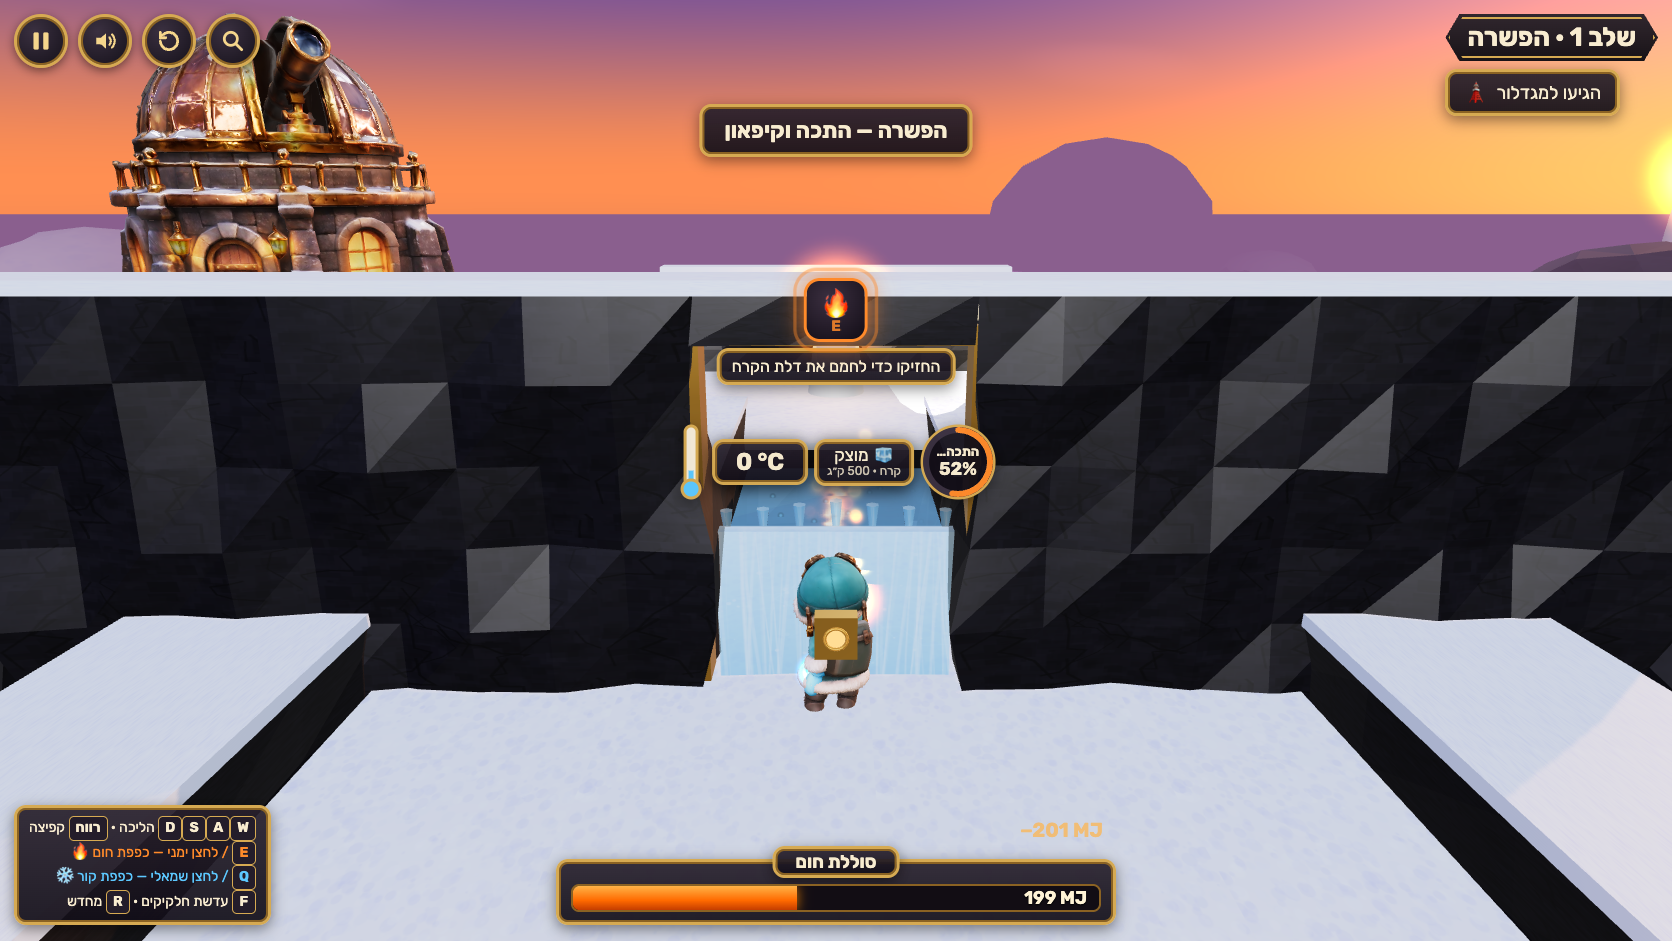
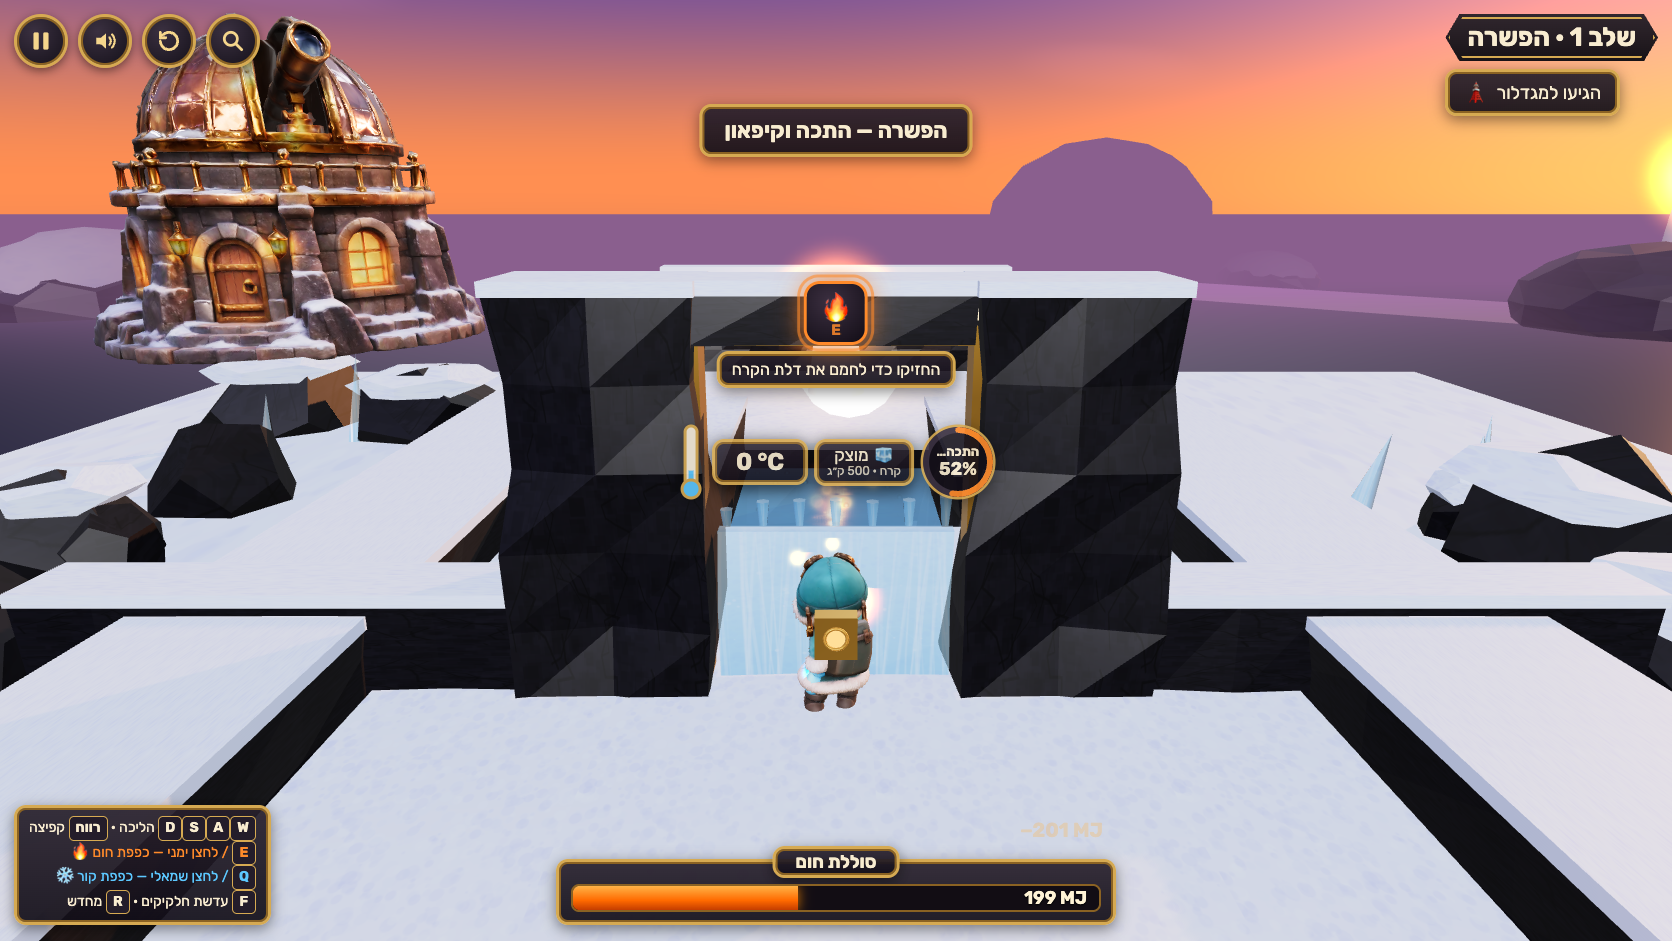
Open up level 1/4 walls, bigger lens, warmer light, VISUAL_REVIEW.md

diff --git a/src/game/levels.ts b/src/game/levels.ts
@@ -54,8 +54,10 @@ const level1: LevelDef = {
   hints: 'always',
   statics: [
     S(0, -2, 3.4, 8, 2, 11.2, 'snow'),
-    S(-4.05, 0, 1.6, 5.9, 3.5, 0.7),
-    S(4.05, 0, 1.6, 5.9, 3.5, 0.7),
+    S(-1.9, 0, 1.6, 1.6, 3.5, 0.9),
+    S(1.9, 0, 1.6, 1.6, 3.5, 0.9),
+    { ...S(-4.85, 0, 1.6, 4.3, 3.5, 0.7), visualH: 0.9 },
+    { ...S(4.85, 0, 1.6, 4.3, 3.5, 0.7), visualH: 0.9 },
     S(0, 3.1, 1.6, 2.2, 0.4, 0.7),
     // creek channel
     S(0, -3, -4.3, 3, 0.5, 4.2, 'stone'),
@@ -328,8 +330,10 @@ const level4: LevelDef = {
     { ...S(-5.5, -2, -5, 2, 7, 26), visualH: 2.7 },
     { ...S(5.5, -2, -5, 2, 7, 26), visualH: 2.7 },
     S(0, 0, 8.3, 9, 2.4, 0.6),
-    S(-2.5, 0, 0, 4, 3.5, 1.2),
-    S(2.5, 0, 0, 4, 3.5, 1.2),
+    S(-1.25, 0, 0, 1.5, 3.5, 1.2),
+    S(1.25, 0, 0, 1.5, 3.5, 1.2),
+    { ...S(-3.25, 0, 0, 2.5, 3.5, 1.2), visualH: 1.0 },
+    { ...S(3.25, 0, 0, 2.5, 3.5, 1.2), visualH: 1.0 },
     S(0, 1.6, 0, 1.0, 1.9, 1.2),
     S(-2.8, 0, -10, 3.4, 4, 0.4),
     S(2.8, 0, -10, 3.4, 4, 0.4),

diff --git a/src/ui/hud.ts b/src/ui/hud.ts
@@ -363,8 +363,9 @@ export class Hud {
       const p = project(lensTarget.ent.id);
       const W = this.el.clientWidth;
       const H = this.el.clientHeight;
-      const lx = p ? Math.min(W - 200, Math.max(200, p.x)) : W / 2;
-      const ly = p ? Math.min(H - 200, Math.max(200, p.y - 60)) : H / 2;
+      const half = Math.min(240, W * 0.4, H * 0.34);
+      const lx = p ? Math.min(W - half, Math.max(half, p.x + (W > 700 ? W * 0.12 : 0))) : W / 2;
+      const ly = p ? Math.min(H - half - 40, Math.max(half + 30, p.y - 60)) : H / 2;
       this.lensWrap.hidden = false;
       this.lensWrap.style.left = `${lx}px`;
       this.lensWrap.style.top = `${ly}px`;

diff --git a/src/render/world.ts b/src/render/world.ts
@@ -70,8 +70,8 @@ export function createWorld(canvas: HTMLCanvasElement): World {
   sky.renderOrder = -10;
   scene.add(sky);
 
-  scene.add(new THREE.HemisphereLight(0x9fa8ff, 0x2a2440, 0.85));
-  const sun = new THREE.DirectionalLight(0xffb37a, 2.6);
+  scene.add(new THREE.HemisphereLight(0xa9b4ff, 0x3a2f55, 1.05));
+  const sun = new THREE.DirectionalLight(0xffae6e, 3.1);
   sun.position.copy(sunDir).multiplyScalar(40);
   sun.castShadow = true;
   sun.shadow.mapSize.set(2048, 2048);

diff --git a/src/ui/style.css b/src/ui/style.css
@@ -387,8 +387,8 @@ body {
 /* lens */
 .lens {
   position: absolute;
-  width: min(360px, 62vmin);
-  height: min(360px, 62vmin);
+  width: min(460px, 64vmin);
+  height: min(460px, 64vmin);
   transform: translate(-50%, -50%);
   pointer-events: none;
 }

diff --git a/docs/VISUAL_REVIEW.md b/docs/VISUAL_REVIEW.md
@@ -1,0 +1,35 @@
+# Visual review — mockups vs real gameplay
+
+Targets: ChatGPT (gpt-image) mockups in `docs/visual-targets/` (prompts in `PROMPTS.md`). They are design targets, not evidence of the game. Actual captures: `docs/captures/*-actual.png`, taken from the running game at the mockups' viewport (1672×941) with real keyboard input through `scripts/shot.mjs` (headless Chrome on the Mac's GPU), at the same moment of play. Hebrew in the mockups is often garbled; we copied layout, not text.
+
+| # | Target | Actual | Moment |
+|---|---|---|---|
+| 01 | `visual-targets/01-first-30s.png` | `captures/01-first-30s-actual.png` | Level 1, holding E at the ice door, mid-melt |
+| 02 | `visual-targets/02-steam-lift.png` | `captures/02-steam-lift-actual.png` | Level 2, riding the balloon basket while the basin boils |
+| 03 | `visual-targets/03-oops.png` | `captures/03-oops-actual.png` | Level 3, heating the wooden rod by mistake |
+| 04 | `visual-targets/04-lens-hud.png` | `captures/04-lens-hud-actual.png` | Level 5, big ice lift stuck at 0 °C, particle lens held |
+
+## What matches
+
+- **Camera**: third-person chase from behind and above the explorer, explorer in the lower middle of the frame, the target ahead (01, 02, 03).
+- **Hero silhouette**: the rigged Tripo explorer (teal parka, fur trim, goggles, orange right glove, blue left glove) with a glowing brass battery backpack added in code to match 01/04. Idle, run, jump, aim and cheer clips play in gameplay.
+- **HUD hierarchy and RTL**: round brass buttons top-left (pause, sound, restart, lens — the lens button lights up like 04's); brass level plaque + objective top-right (`שלב 1 · הפשרה`, `הגיעו למגדלור` with lighthouse icon); `סוללת חום` battery bar bottom-centre with an LTR MJ value; thermometer + °C readout + phase chip + plateau progress ring (`התכה… 52%`) on the target; touch layout (stick left, 🔥 ❄ ⤒ right) at phone width.
+- **Particle lens (04)**: brass ring split down the middle — liquid particles sliding on one side, a vibrating bonded lattice on the other — with `0 °C` on top, `נוזל` / `מוצק` side tags and a locked mass tag at the bottom (`🔒 מסה: 1000 ק״ג · H₂O`). This is the closest match.
+- **Steam lift (02)**: the explorer stands in the Tripo balloon's basket while the envelope swells; a hose runs from the boiling basin; white droplet clouds rise from the basin; the gauge reads 100 °C with a רתיחה ring.
+- **Palette**: violet-blue sky to orange horizon, low warm sun, black basalt, snow, brass, warm lamp light; the Tripo observatory dome as a landmark; a lighthouse as the exit beacon.
+
+## Material differences that remain (honest)
+
+1. **Scene density and finish.** The mockups are painterly, densely dressed cliffs with wet reflective rock, icicles everywhere, waterfalls and rim light. The game uses procedural boxes with lumpy rock sides, flat snow tops and scattered boulders. It reads as the same world but plainer. (Improved once: the long flat wall in level 1 was split into rock pillars with low rocks beyond so the sea and sky open up, and textures now tile.)
+2. **Gauge placement.** The mockups pin the thermometer cluster to the top of the screen on a stalk; the game anchors it beside the target object, which keeps it readable when the camera moves. Deliberate.
+3. **Heat beam.** Mockup 01 shows a single bright continuous flame beam; the game uses a stream of orange sparks (heat glove) and blue frost motes flowing *into* the cold glove. Thinner and less dramatic than the target.
+4. **Melting look.** Mockup 01 shows a cracked, dripping ice arch with a waterfall; the game's door shrinks from the top with glowing cracks, drips and a splash. No sculpted cracks or meltwater sheet.
+5. **Level 3 "oops" (03).** The mockup frames the wooden and copper rods side by side through one glass pane at close range with a "?" thought bubble; the game shows the wooden rod smoking and the gauge at 180 °C from the chase camera, with no thought bubble. The lesson (wood's near end gets hot, the far end and lock don't change) is visible on the rod colours and the gauge.
+6. **Lens context (04).** The mockup holds a hand magnifier in close-up; the game uses a screen-space lens over the target with the world dimmed.
+7. **Mockup 02's steam plume** is labelled "טיפות מים" in-world; the game says it in the boiling toast and the level takeaway instead of a floating label.
+8. **Desktop keys legend** (bottom-left) is not in the mockups (they show the touch stick); it is hidden on touch devices.
+
+## Not verified
+
+- Real-GPU frame rate on low-end laptops and phones (headless Mac GPU only; the in-game FPS counter is in `render_game_to_text`).
+- How the scene looks on a real phone screen (only 390×844 headless captures).
